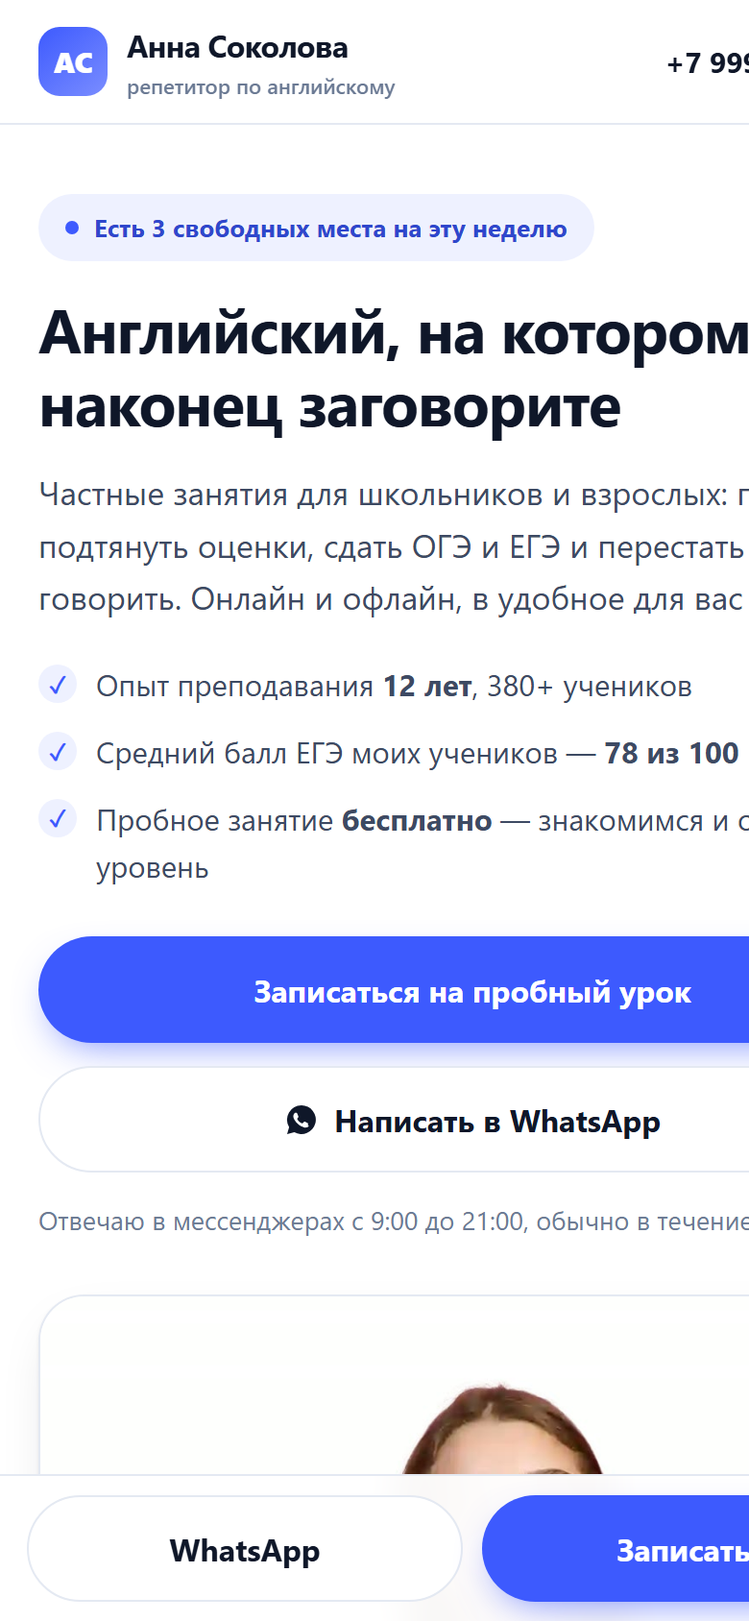
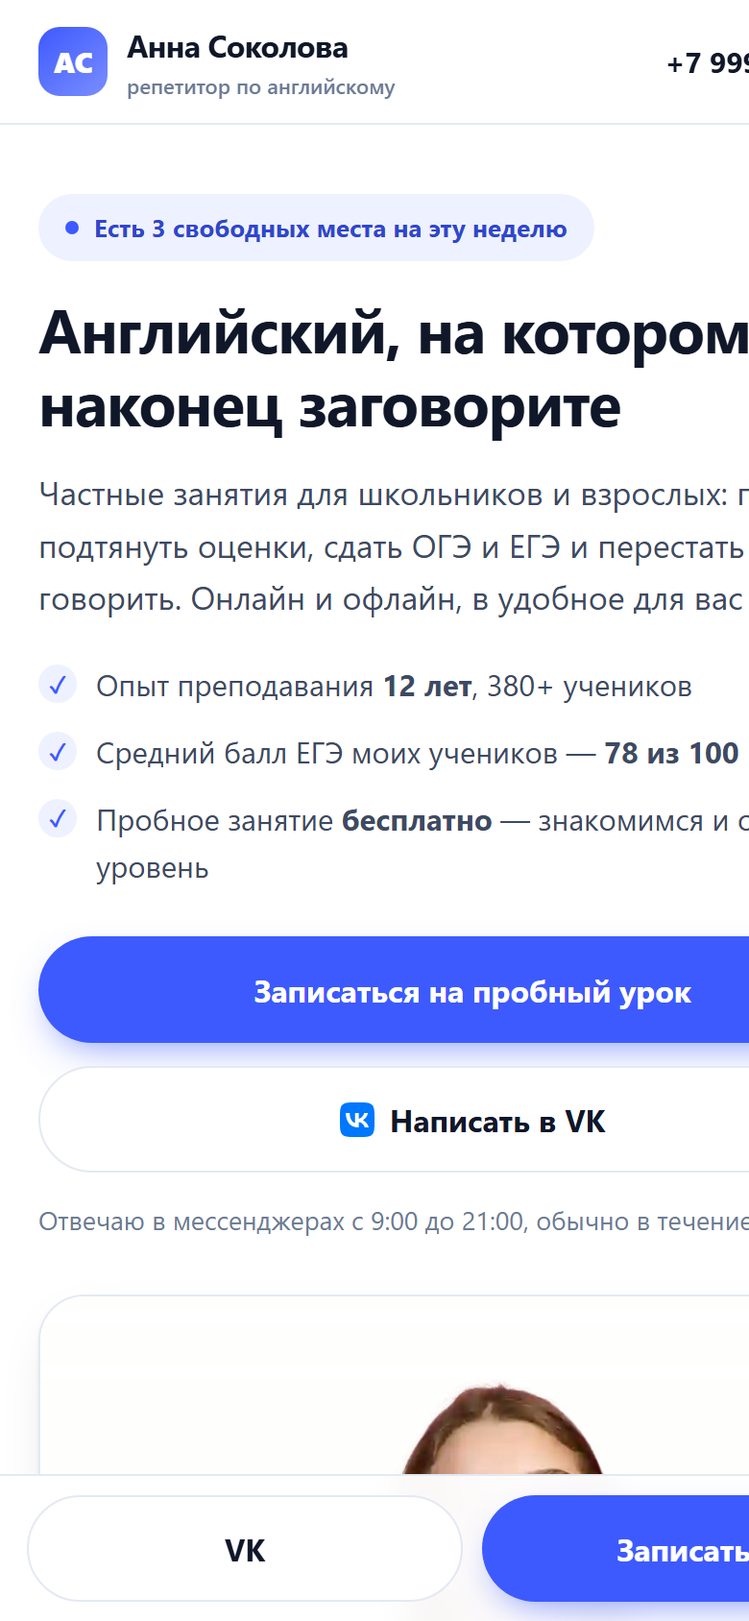
VK вместо WhatsApp, равные блоки записи, свёрнутый FAQ, надпись кнопки по тарифу

Changed region(s): [[0.3692, 0.6777, 0.8923, 0.7085], [0.2154, 0.9242, 0.4308, 0.9858]]

diff --git a/index.html b/index.html
@@ -18,7 +18,7 @@
   --brand-soft:#eef1ff;
   --accent:#ff8a3d;
   --gold:#f5b544;
-  --wa:#25d366;
+  --vk:#0077ff;
   --radius:16px;
   --radius-lg:24px;
   --shadow:0 1px 2px rgba(15,23,41,.06), 0 10px 30px -12px rgba(15,23,41,.18);
@@ -65,8 +65,8 @@ button,input,select,textarea{font:inherit;color:inherit}
 .btn--primary:hover{background:var(--brand-dark)}
 .btn--ghost{background:#fff;border-color:var(--line);color:var(--ink)}
 .btn--ghost:hover{border-color:#c9d2e4;background:#fbfcff}
-.btn--wa{background:#fff;border-color:var(--line);color:var(--ink)}
-.btn--wa:hover{border-color:var(--wa)}
+.btn--vk{background:#fff;border-color:var(--line);color:var(--ink)}
+.btn--vk:hover{border-color:var(--vk)}
 .btn--tg{background:#fff;border-color:var(--line);color:var(--ink)}
 .btn--tg:hover{border-color:#2aabee}
 .btn--max{background:#fff;border-color:var(--line);color:var(--ink)}
@@ -238,7 +238,8 @@ details p{padding:0 0 18px;color:var(--muted);font-size:15px}
   border-radius:12px;padding:14px;font-size:15px;font-weight:600;margin-bottom:14px;
 }
 .form__ok.on{display:block}
-.side__box{background:#fff;border:1px solid var(--line);border-radius:var(--radius);padding:22px;box-shadow:var(--shadow-sm)}
+.side__box{background:#fff;border:1px solid var(--line);border-radius:var(--radius);padding:22px;box-shadow:var(--shadow-sm);display:flex;flex-direction:column}
+.side__facts{margin-top:auto;padding-top:18px}
 .side__box h3{font-size:17px;margin-bottom:6px}
 .side__box p{font-size:15px;color:var(--muted);margin-bottom:14px}
 .mess{display:grid;gap:10px}
@@ -299,7 +300,7 @@ body{padding-bottom:76px}
   .section-head{max-width:70ch;margin-bottom:40px}
   .reviews-grid{grid-template-columns:repeat(2,1fr);gap:20px}
 
-  .signup{grid-template-columns:1.1fr .9fr;gap:32px;align-items:start}
+  .signup{grid-template-columns:1.1fr .9fr;gap:32px;align-items:stretch}
   .form{padding:30px}
   .footer__grid{grid-template-columns:1.4fr 1fr 1fr;gap:40px}
   .price{padding:28px}
@@ -352,9 +353,9 @@ body{padding-bottom:76px}
         </ul>
         <div class="hero__actions">
           <a class="btn btn--primary" href="#signup">Записаться на пробный урок</a>
-          <a class="btn btn--wa" href="https://wa.me/79990001122" target="_blank" rel="noopener">
-            <svg class="ico" viewBox="0 0 24 24" fill="currentColor" aria-hidden="true"><path d="M12 2a10 10 0 0 0-8.6 15.1L2 22l5-1.3A10 10 0 1 0 12 2Zm5.2 14.2c-.2.6-1.3 1.2-1.8 1.2-.5.1-1 .1-1.7-.1-.4-.1-.9-.3-1.6-.6-2.8-1.2-4.6-4-4.7-4.2-.1-.2-1.1-1.5-1.1-2.8 0-1.3.7-2 .9-2.2.2-.3.5-.3.7-.3h.5c.2 0 .4-.1.6.5l.8 2c.1.2.1.3 0 .5l-.3.5-.3.3c-.1.1-.3.3-.1.6.1.3.6 1 1.3 1.7.9.8 1.6 1 1.9 1.2.3.1.4.1.6-.1l.8-.9c.2-.2.4-.2.6-.1l1.7.8c.5.3.5.4.5.6.1.1.1.7-.1 1.3Z"/></svg>
-            Написать в WhatsApp
+          <a class="btn btn--vk" href="https://vk.me/annenglish" target="_blank" rel="noopener">
+            <svg class="ico" viewBox="0 0 24 24" fill="#0077ff" fill-rule="evenodd" aria-hidden="true"><path d="m9.489.004.729-.003h3.564l.73.003.914.01.433.007.418.011.403.014.388.016.374.021.36.025.345.03.333.033c1.74.196 2.933.616 3.833 1.516.9.9 1.32 2.092 1.516 3.833l.034.333.029.346.025.36.02.373.025.588.012.41.013.644.009.915.004.98-.001 3.313-.003.73-.01.914-.007.433-.011.418-.014.403-.016.388-.021.374-.025.36-.03.345-.033.333c-.196 1.74-.616 2.933-1.516 3.833-.9.9-2.092 1.32-3.833 1.516l-.333.034-.346.029-.36.025-.373.02-.588.025-.41.012-.644.013-.915.009-.98.004-3.313-.001-.73-.003-.914-.01-.433-.007-.418-.011-.403-.014-.388-.016-.374-.021-.36-.025-.345-.03-.333-.033c-1.74-.196-2.933-.616-3.833-1.516-.9-.9-1.32-2.092-1.516-3.833l-.034-.333-.029-.346-.025-.36-.02-.373-.025-.588-.012-.41-.013-.644-.009-.915-.004-.98.001-3.313.003-.73.01-.914.007-.433.011-.418.014-.403.016-.388.021-.374.025-.36.03-.345.033-.333c.196-1.74.616-2.933 1.516-3.833.9-.9 2.092-1.32 3.833-1.516l.333-.034.346-.029.36-.025.373-.02.588-.025.41-.012.644-.013.915-.009ZM6.79 7.3H4.05c.13 6.24 3.25 9.99 8.72 9.99h.31v-3.57c2.01.2 3.53 1.67 4.14 3.57h2.84c-.78-2.84-2.83-4.41-4.11-5.01 1.28-.74 3.08-2.54 3.51-4.98h-2.58c-.56 1.98-2.22 3.78-3.8 3.95V7.3H10.5v6.92c-1.6-.4-3.62-2.34-3.71-6.92Z"/></svg>
+            Написать в VK
           </a>
         </div>
         <p class="hero__note">Отвечаю в мессенджерах с 9:00 до 21:00, обычно в течение 15 минут.</p>
@@ -509,7 +510,7 @@ body{padding-bottom:76px}
             <li><span class="tick">✓</span><span>План занятий — остаётся у вас</span></li>
             <li><span class="tick">✓</span><span>Без обязательств заниматься дальше</span></li>
           </ul>
-          <a class="btn btn--ghost btn--block" href="#signup">Записаться бесплатно</a>
+          <a class="btn btn--ghost btn--block" href="#signup" data-cta="Записаться бесплатно">Записаться бесплатно</a>
         </article>
 
         <article class="price price--hot">
@@ -523,7 +524,7 @@ body{padding-bottom:76px}
             <li><span class="tick">✓</span><span>Доступ к моим материалам</span></li>
             <li><span class="tick">✓</span><span>Отмена без штрафа за 12 часов</span></li>
           </ul>
-          <a class="btn btn--primary btn--block" href="#signup">Записаться на урок</a>
+          <a class="btn btn--primary btn--block" href="#signup" data-cta="Записаться на урок">Записаться на урок</a>
         </article>
 
         <article class="price">
@@ -536,7 +537,7 @@ body{padding-bottom:76px}
             <li><span class="tick">✓</span><span>Промежуточный отчёт о прогрессе</span></li>
             <li><span class="tick">✓</span><span>Занятия действуют 2 месяца</span></li>
           </ul>
-          <a class="btn btn--ghost btn--block" href="#signup">Взять абонемент</a>
+          <a class="btn btn--ghost btn--block" href="#signup" data-cta="Взять абонемент">Взять абонемент</a>
         </article>
       </div>
     </div>
@@ -550,7 +551,7 @@ body{padding-bottom:76px}
         <h2 class="h2">Частые вопросы</h2>
       </div>
       <div class="faq">
-        <details open>
+        <details>
           <summary>Как проходят занятия онлайн?</summary>
           <p>В Zoom или Telegram с онлайн-доской. Я пишу на доске, вы видите всё в реальном времени, записи сохраняются. Понадобятся только компьютер или планшет, наушники и интернет.</p>
         </details>
@@ -613,7 +614,7 @@ body{padding-bottom:76px}
             <label for="time">Удобное время занятий</label>
             <input id="time" name="time" type="text" placeholder="Будни после 18:00, выходные утром">
           </div>
-          <button class="btn btn--primary btn--block" type="submit">Записаться на пробный урок</button>
+          <button class="btn btn--primary btn--block" id="formSubmit" type="submit">Записаться на пробный урок</button>
           <p class="form__hint">Нажимая кнопку, вы соглашаетесь на обработку персональных данных.</p>
         </form>
 
@@ -621,9 +622,9 @@ body{padding-bottom:76px}
           <h3>Написать напрямую</h3>
           <p>Отвечаю с 9:00 до 21:00, обычно в течение 15 минут.</p>
           <div class="mess">
-            <a class="btn btn--wa btn--block" href="https://wa.me/79990001122" target="_blank" rel="noopener">
-              <svg class="ico" viewBox="0 0 24 24" fill="currentColor" aria-hidden="true"><path d="M12 2a10 10 0 0 0-8.6 15.1L2 22l5-1.3A10 10 0 1 0 12 2Zm5.2 14.2c-.2.6-1.3 1.2-1.8 1.2-.5.1-1 .1-1.7-.1-.4-.1-.9-.3-1.6-.6-2.8-1.2-4.6-4-4.7-4.2-.1-.2-1.1-1.5-1.1-2.8 0-1.3.7-2 .9-2.2.2-.3.5-.3.7-.3h.5c.2 0 .4-.1.6.5l.8 2c.1.2.1.3 0 .5l-.3.5-.3.3c-.1.1-.3.3-.1.6.1.3.6 1 1.3 1.7.9.8 1.6 1 1.9 1.2.3.1.4.1.6-.1l.8-.9c.2-.2.4-.2.6-.1l1.7.8c.5.3.5.4.5.6.1.1.1.7-.1 1.3Z"/></svg>
-              WhatsApp
+            <a class="btn btn--vk btn--block" href="https://vk.me/annenglish" target="_blank" rel="noopener">
+              <svg class="ico" viewBox="0 0 24 24" fill="#0077ff" fill-rule="evenodd" aria-hidden="true"><path d="m9.489.004.729-.003h3.564l.73.003.914.01.433.007.418.011.403.014.388.016.374.021.36.025.345.03.333.033c1.74.196 2.933.616 3.833 1.516.9.9 1.32 2.092 1.516 3.833l.034.333.029.346.025.36.02.373.025.588.012.41.013.644.009.915.004.98-.001 3.313-.003.73-.01.914-.007.433-.011.418-.014.403-.016.388-.021.374-.025.36-.03.345-.033.333c-.196 1.74-.616 2.933-1.516 3.833-.9.9-2.092 1.32-3.833 1.516l-.333.034-.346.029-.36.025-.373.02-.588.025-.41.012-.644.013-.915.009-.98.004-3.313-.001-.73-.003-.914-.01-.433-.007-.418-.011-.403-.014-.388-.016-.374-.021-.36-.025-.345-.03-.333-.033c-1.74-.196-2.933-.616-3.833-1.516-.9-.9-1.32-2.092-1.516-3.833l-.034-.333-.029-.346-.025-.36-.02-.373-.025-.588-.012-.41-.013-.644-.009-.915-.004-.98.001-3.313.003-.73.01-.914.007-.433.011-.418.014-.403.016-.388.021-.374.025-.36.03-.345.033-.333c.196-1.74.616-2.933 1.516-3.833.9-.9 2.092-1.32 3.833-1.516l.333-.034.346-.029.36-.025.373-.02.588-.025.41-.012.644-.013.915-.009ZM6.79 7.3H4.05c.13 6.24 3.25 9.99 8.72 9.99h.31v-3.57c2.01.2 3.53 1.67 4.14 3.57h2.84c-.78-2.84-2.83-4.41-4.11-5.01 1.28-.74 3.08-2.54 3.51-4.98h-2.58c-.56 1.98-2.22 3.78-3.8 3.95V7.3H10.5v6.92c-1.6-.4-3.62-2.34-3.71-6.92Z"/></svg>
+              VK
             </a>
             <a class="btn btn--tg btn--block" href="https://t.me/annenglish" target="_blank" rel="noopener">
               <svg class="ico" viewBox="0 0 24 24" fill="currentColor" aria-hidden="true"><path d="M21.9 4.3 18.7 19c-.2 1-.9 1.3-1.7.8l-4.6-3.4-2.2 2.1c-.3.3-.5.5-1 .5l.3-4.7 7.4-6.7c.3-.3 0-.4-.5-.1L6.2 13.1l-4.5-1.4c-1-.3-1-1 .2-1.4l18.6-7.2c.8-.3 1.6.2 1.4 1.2Z"/></svg>
@@ -635,7 +636,7 @@ body{padding-bottom:76px}
             </a>
             <a class="btn btn--ghost btn--block" href="tel:+79990001122">Позвонить: +7 999 000-11-22</a>
           </div>
-          <div style="margin-top:18px">
+          <div class="side__facts">
             <div class="side__row"><span>Формат</span><b>Онлайн и офлайн</b></div>
             <div class="side__row"><span>Длительность</span><b>45–60 минут</b></div>
             <div class="side__row"><span>Отмена</span><b>за 12 часов</b></div>
@@ -671,7 +672,7 @@ body{padding-bottom:76px}
       <ul>
         <li><a href="tel:+79990001122">+7 999 000-11-22</a></li>
         <li><a href="mailto:hello@example.ru">hello@example.ru</a></li>
-        <li><a href="https://wa.me/79990001122" target="_blank" rel="noopener">WhatsApp</a></li>
+        <li><a href="https://vk.me/annenglish" target="_blank" rel="noopener">VK</a></li>
         <li><a href="https://t.me/annenglish" target="_blank" rel="noopener">Telegram</a></li>
         <li>Ежедневно 9:00–21:00</li>
       </ul>
@@ -685,7 +686,7 @@ body{padding-bottom:76px}
 
 <!-- мобильная панель действий -->
 <div class="mobile-bar">
-  <a class="btn btn--wa" href="https://wa.me/79990001122" target="_blank" rel="noopener">WhatsApp</a>
+  <a class="btn btn--vk" href="https://vk.me/annenglish" target="_blank" rel="noopener">VK</a>
   <a class="btn btn--primary" href="#signup">Записаться</a>
 </div>
 
@@ -701,6 +702,19 @@ body{padding-bottom:76px}
     }
     document.getElementById('formOk').classList.add('on');
     f.reset();
+  });
+
+  // Надпись кнопки подтверждения записи = текст кнопки тарифа, с которого перешли.
+  // По умолчанию — «Записаться на пробный урок».
+  var DEFAULT_CTA = 'Записаться на пробный урок';
+  var submitBtn = document.getElementById('formSubmit');
+  Array.prototype.forEach.call(document.querySelectorAll('[data-cta]'), function (el) {
+    el.addEventListener('click', function () {
+      submitBtn.textContent = el.getAttribute('data-cta');
+    });
+  });
+  Array.prototype.forEach.call(document.querySelectorAll('a[href="#signup"]:not([data-cta])'), function (el) {
+    el.addEventListener('click', function () { submitBtn.textContent = DEFAULT_CTA; });
   });
 </script>
 </body>

diff --git a/SPEC.md b/SPEC.md
@@ -2,7 +2,7 @@
 
 ## Цель
 Одностраничный сайт, главная задача — **заявка на бесплатное пробное занятие**.
-Дополнительные целевые действия: сообщение в WhatsApp/Telegram, звонок.
+Дополнительные целевые действия: сообщение в VK, Telegram или MAX, звонок.
 
 ## Аудитория
 Родители школьников 5–11 классов и взрослые, которым нужен английский для работы/разговора.
@@ -14,7 +14,7 @@
 ## Структура страницы (порядок сверху вниз)
 1. **Хедер** — логотип, навигация (десктоп), кнопка «Записаться».
 2. **Первый экран** — бейдж о свободных местах, H1, описание, 3 преимущества,
-   CTA «Записаться на пробный урок» + «Написать в WhatsApp», фото преподавателя, подпись.
+   CTA «Записаться на пробный урок» + «Написать в VK», фото преподавателя, подпись.
 3. **Полоса цифр** — 12 лет, 380+ учеников, средний балл ЕГЭ 78, рейтинг 4,9.
 4. **Направления** — 6 карточек: школьники, ОГЭ/ЕГЭ, разговорный, для работы, с нуля, для поездок.
 5. **Обо мне** — фото, текст, 5 пунктов (образование, CELTA, стажировка, методика).
@@ -22,13 +22,13 @@
 7. **Стоимость** — 3 тарифа: пробное 0 ₽, разовое 1 500 ₽, абонемент 8 занятий 10 400 ₽.
 8. **FAQ** — 6 вопросов на нативных `<details>` (аккордеон без JS).
 9. **Форма записи** — имя, контакт, цель, удобное время + блок мессенджеров
-   (WhatsApp, Telegram, MAX) и фактов.
+   (VK, Telegram, MAX) и фактов.
 10. **Футер** — контакты, разделы, реквизиты.
 
 ## Требования к вёрстке
 - Мобильный приоритет; точка перелома — **900 px**.
 - Десктоп: hero в 2 колонки, сетки 3/4 колонки, навигация в хедере.
-- Мобильный: одна колонка, **фиксированная нижняя панель** с кнопками «WhatsApp» и «Записаться».
+- Мобильный: одна колонка, **фиксированная нижняя панель** с кнопками «VK» и «Записаться».
 - Анимации — только `transition` на ховер/фокус. Без JS-скролл-анимаций, параллакса и слайдеров.
 - Никаких внешних зависимостей: системные шрифты, SVG-иконки в разметке.
 
@@ -38,6 +38,11 @@
 - [x] Форма без отправки данных показывает сообщение об успехе (заглушка).
 - [x] Фото преподавателя — на белом фоне (`assets/tutor.jpg` 940×1175, вырезанная фигура).
 - [x] Кнопка мессенджера MAX в блоке «Написать напрямую» (градиент бренда #3EB9FD → #9840DB).
+- [x] Кнопки связи: VK, Telegram, MAX, телефон (WhatsApp убран везде).
+- [x] Блоки формы и «Написать напрямую» одинаковой высоты на десктопе.
+- [x] FAQ свёрнут по умолчанию — все 6 вопросов закрыты.
+- [x] Надпись кнопки подтверждения повторяет текст кнопки тарифа, с которого перешли
+  (по умолчанию «Записаться на пробный урок»).
 - [ ] Заменить остальные плейсхолдеры: имя, цены, телефоны, ссылки мессенджеров, реквизиты.
 - [ ] Подключить реальную отправку формы.
 
@@ -48,4 +53,4 @@
 ## Открытые вопросы
 - Реальные данные преподавателя (имя, фото, цены, контакты, реквизиты).
 - Куда присылать заявки: Telegram-бот / почта / Formspree.
-- Нужен ли домен и деплой.
+- Нужен ли свой домен (сейчас сайт живёт на GitHub Pages).

diff --git a/DEV-JOURNAL.md b/DEV-JOURNAL.md
@@ -8,6 +8,22 @@
   коммит `b264ca9`. Git-пользователь локально: `it-ul <it-ul@users.noreply.github.com>`
   (глобальный рабочий email в коммиты не попал).
 
+### Итерация 3 — VK вместо WhatsApp, выравнивание блоков, поведение CTA
+
+- WhatsApp убран ВЕЗДЕ (hero, блок мессенджеров, футер, мобильная панель), вместо него VK:
+  ссылка `https://vk.me/annenglish`, класс `.btn--vk`, ховер-#0077ff, переменная `--vk`
+  заменила `--wa`. Иконка — инлайновый SVG (path из simple-icons, `fill-rule="evenodd"`,
+  буквы «VK» вырезаны из скруглённого квадрата).
+- Блоки «Форма записи» и «Написать напрямую» выровнены по высоте: у `.signup` на десктопе
+  `align-items:start` → `stretch`, `.side__box` стал flex-колонкой, а плашка фактов получила
+  класс `.side__facts{margin-top:auto}`, чтобы прилипать к низу.
+- FAQ: `open` с первого `<details>` снят — теперь все 6 вопросов свёрнуты.
+- Кнопка подтверждения записи: у трёх кнопок тарифов атрибут `data-cta` с их текстом,
+  у submit — `id="formSubmit"`. Скрипт подменяет надпись при клике по тарифу, а любой другой
+  переход на `#signup` (хедер, hero, мобильная панель) возвращает «Записаться на пробный урок».
+- Проверено кликом в headless-Chrome: «Взять абонемент» → на кнопке формы «Взять абонемент»;
+  «Записаться бесплатно» → «Записаться бесплатно».
+
 ### Итерация 2 — новое фото и кнопка MAX
 
 - Источник — `header-girl-desktop-2x.webp` (952×1480, фигура ВЫРЕЗАНА, фон прозрачный,
@@ -22,13 +38,13 @@
   градиент бренда #3EB9FD → #9840DB. Ссылка-заглушка `https://max.ru/u/annenglish`
   (формат ссылки на профиль в MAX — `max.ru/u/xxxxxx`).
 - Проверено скриншотами: белый фон фото сливается с карточкой, границ не видно; в блоке
-  «Написать напрямую» кнопки идут WhatsApp → Telegram → MAX → Позвонить, иконки на месте.
+  «Написать напрямую» кнопки идут VK → Telegram → MAX → Позвонить, иконки на месте.
 
 ### Что сделано
 - `index.html` — одностраничник репетитора по английскому: 10 секций (хедер, hero со фото,
   цифры, направления, обо мне, отзывы, цены, FAQ, форма записи, футер).
 - Адаптив: точка перелома 900 px. Мобильная версия — одна колонка + фиксированная нижняя
-  панель «WhatsApp / Записаться». Анимаций нет, только transition на ховер/фокус.
+  панель «VK / Записаться». Анимаций нет, только transition на ховер/фокус.
 - Внешних зависимостей ноль: системные шрифты, инлайн SVG-иконки, шрифты и CSS внутри файла.
 - Форма: 4 поля, HTML5-валидация + 15 строк JS-заглушки на успех (реальная отправка не подключена).
 
